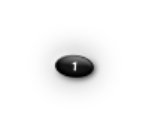
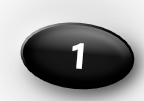
button updates

diff --git a/arpwiremediacenter/src/App.js b/arpwiremediacenter/src/App.js
@@ -137,9 +137,12 @@ function App() {
         <div className="player-container">
           <img id={'background'} src="/media player components/background.png" alt="Next" style={{ position: 'absolute' }} />
           <img id={'screen'} src="/media player components/screen.png" alt="Next" style={{ position: 'absolute'}} />
-          <button className={"navbuttons"} id="number1" style={{ position: 'absolute', padding: 0, width: '50px', height: '50px', border: 'none' }}>
-            <img src="/media player components/1.png" alt="Button Image" style={{ width: '100%', height: '100%', objectFit: 'cover', display: 'block' }} />
+          <button className={"navbuttons"} id="number1" style={{ position: 'absolute' }}>
+            1
           </button>
+
+          <img src="/media player components/1.png" alt="Button Image" style={{ position: 'absolute', width: '10%', height: '10%', objectFit: 'cover', display: 'block', bottom: '30px'}} />
+          
 
 
 

diff --git a/arpwiremediacenter/src/App.css b/arpwiremediacenter/src/App.css
@@ -196,14 +196,40 @@
   z-index: 1;
 }
 
+.navbuttons{
+  background: none;
+  filter: none;
+  border: none;
+  scale: .4;
+}
+
+.navbuttons:hover{
+  scale: 1.5;
+}
+
+
 #number1{
-  bottom: 0;
-  left: 0;
+  bottom: 25px;
+  left: 250px;
+  color: aliceblue;
+  font-size: 3rem;
+  z-index: 5;
+  font-family:'Lucida Sans', 'Lucida Sans Regular', 'Lucida Grande', 'Lucida Sans Unicode', Geneva, Verdana, sans-serif;
+  background: linear-gradient(-177deg, rgb(114, 114, 114),rgb(114, 114, 114), rgb(0, 0, 0), black);
+  border-radius: 100%;
+  width: 100px;
+  border: solid black;
+  border: 1px solid black;
+  box-shadow: inset 0 0 0 5px rgba(26, 26, 26, 0.158),  
+              5px 5px 10px rgba(0, 0, 0, 0.5),  
+              -5px -5px 15px rgba(255, 255, 255, 0.5);
+  transform: rotate(8deg);
+
+
 }
 #number2{
   bottom: 0;
   right: 0;
-  background: #5f5f5f;
 }
 #number3{
   bottom: 0;
